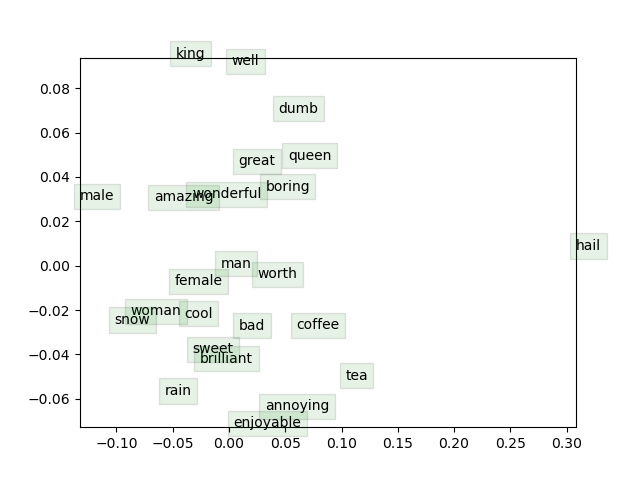
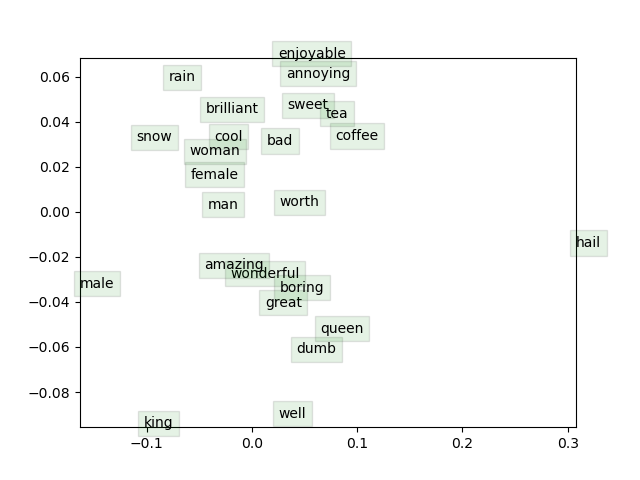
docs(report)

diff --git a/README.md b/README.md
@@ -1,1 +1,46 @@
 # WordToVectors
+
+## TODO 1 Sigmoid
+
+```py
+    s = 1 / (1 + np.exp(-x))
+```
+
+## TODO 2 loss
+
+```py
+    score = np.exp(np.dot(outsideVectors, centerWordVec))
+    y_hat = score / np.sum(np.exp(np.matmul(outsideVectors, centerWordVec)))
+    loss = -np.sum(np.log(y_hat))
+```
+
+## TODO 3 gradient
+
+```py
+    gradCenterVec = np.matmul(outsideVectors.T, y_hat - y)
+    gradOutsideVecs = np.matmul(np.matrix(y_hat - y).T, np.matrix(centerWordVec))
+```
+
+这次实验比较烧脑的并不是推公式，而是这几个矩阵用numpy是如何表示的。比如：
+
+1. 习惯上向量是是列向量，但numpy默认是行向量
+2. 单行array的转置，应该先把array转变成matrix（或者用reshape函数）
+3. 注意.dot和.matmul矩阵乘法的区别
+
+<div STYLE="page-break-after: always;"></div>
+
+## 运行结果
+
+![运行结果1](./image.JPEG)
+![运行结果2](./word_vectors.png)
+
+## 对词向量的认识
+
+1. 词向量最重要的意义是将人类能看懂的文字转换成计算机能计算的数据
+2. word2vec就是找出文本在字典中的编号，乘以一个参数矩阵，得到一个长度为n的向量
+3. 因为大量语料中相似词有相似的上下文，所以会得到相似的向量
+4. skip-gram: 给定句子中的当前词，预测周围的词
+
+## 实验生成图片的理解
+
+一些单词出现了聚拢的现象，说明这些词向量在我们的语料库中共同出现的次数较多，在词性、含义、用法上有相似之处
